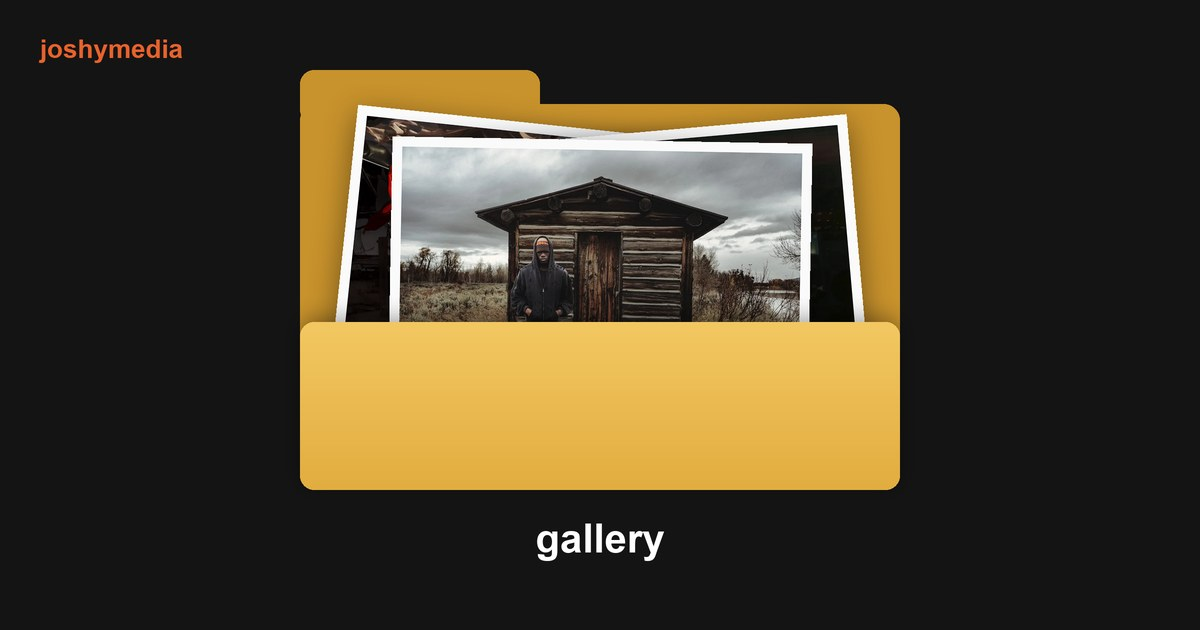
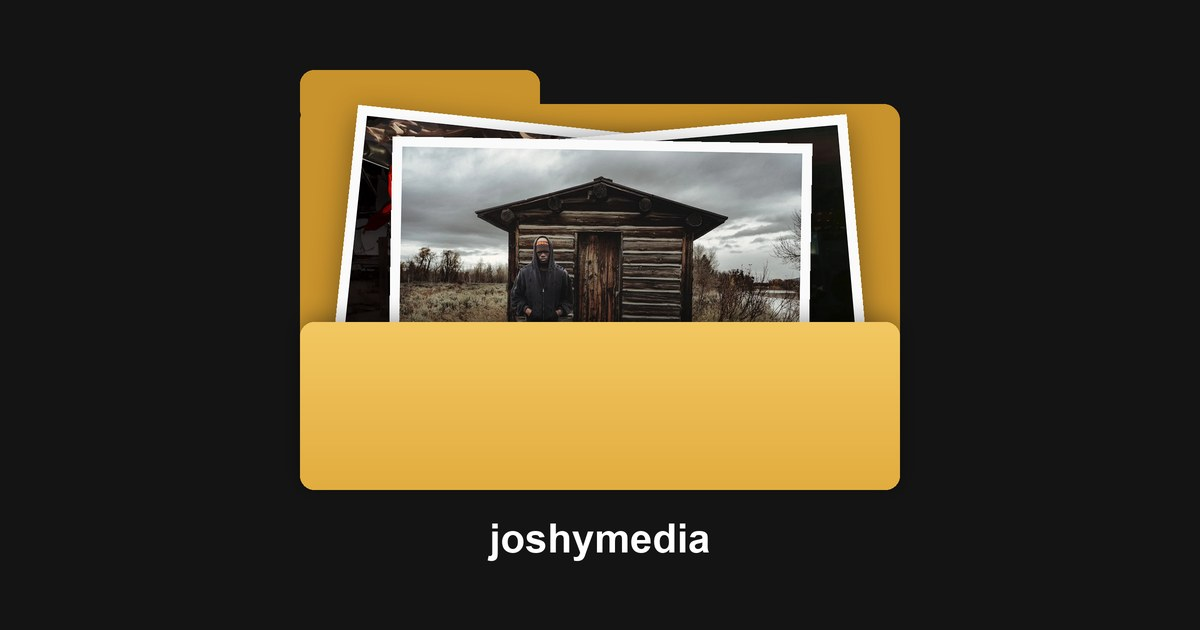
Link preview: folder named joshymedia, no corner wordmark

Changed region(s): [[0.4008, 0.8143, 0.6167, 0.9048], [0.0308, 0.0603, 0.1542, 0.0905]]

diff --git a/404.html b/404.html
@@ -13,12 +13,12 @@
   <meta property="og:title" content="joshymedia">
   <meta property="og:description" content="joshy is a los angeles-based creative director and photographer.">
   <meta property="og:url" content="https://joshymedia.com/">
-  <meta property="og:image" content="https://joshymedia.com/og-image.jpg">
+  <meta property="og:image" content="https://joshymedia.com/og-image.jpg?v=2">
   <meta property="og:image:width" content="1200">
   <meta property="og:image:height" content="630">
-  <meta property="og:image:alt" content="a stack of photos in a folder named gallery">
+  <meta property="og:image:alt" content="a stack of photos in a folder named joshymedia">
   <meta name="twitter:card" content="summary_large_image">
-  <meta name="twitter:image" content="https://joshymedia.com/og-image.jpg">
+  <meta name="twitter:image" content="https://joshymedia.com/og-image.jpg?v=2">
   <script>
     try { var t = localStorage.getItem("jm-theme"); if (t) document.documentElement.dataset.theme = t; } catch (e) {}
   </script>

diff --git a/contact.html b/contact.html
@@ -13,12 +13,12 @@
   <meta property="og:title" content="joshymedia">
   <meta property="og:description" content="joshy is a los angeles-based creative director and photographer.">
   <meta property="og:url" content="https://joshymedia.com/">
-  <meta property="og:image" content="https://joshymedia.com/og-image.jpg">
+  <meta property="og:image" content="https://joshymedia.com/og-image.jpg?v=2">
   <meta property="og:image:width" content="1200">
   <meta property="og:image:height" content="630">
-  <meta property="og:image:alt" content="a stack of photos in a folder named gallery">
+  <meta property="og:image:alt" content="a stack of photos in a folder named joshymedia">
   <meta name="twitter:card" content="summary_large_image">
-  <meta name="twitter:image" content="https://joshymedia.com/og-image.jpg">
+  <meta name="twitter:image" content="https://joshymedia.com/og-image.jpg?v=2">
   <script>
     try { var t = localStorage.getItem("jm-theme"); if (t) document.documentElement.dataset.theme = t; } catch (e) {}
   </script>

diff --git a/gallery.html b/gallery.html
@@ -13,12 +13,12 @@
   <meta property="og:title" content="joshymedia">
   <meta property="og:description" content="joshy is a los angeles-based creative director and photographer.">
   <meta property="og:url" content="https://joshymedia.com/">
-  <meta property="og:image" content="https://joshymedia.com/og-image.jpg">
+  <meta property="og:image" content="https://joshymedia.com/og-image.jpg?v=2">
   <meta property="og:image:width" content="1200">
   <meta property="og:image:height" content="630">
-  <meta property="og:image:alt" content="a stack of photos in a folder named gallery">
+  <meta property="og:image:alt" content="a stack of photos in a folder named joshymedia">
   <meta name="twitter:card" content="summary_large_image">
-  <meta name="twitter:image" content="https://joshymedia.com/og-image.jpg">
+  <meta name="twitter:image" content="https://joshymedia.com/og-image.jpg?v=2">
   <script>
     try { var t = localStorage.getItem("jm-theme"); if (t) document.documentElement.dataset.theme = t; } catch (e) {}
   </script>

diff --git a/index.html b/index.html
@@ -11,12 +11,12 @@
   <meta property="og:title" content="joshymedia">
   <meta property="og:description" content="joshy is a los angeles-based creative director and photographer.">
   <meta property="og:url" content="https://joshymedia.com/">
-  <meta property="og:image" content="https://joshymedia.com/og-image.jpg">
+  <meta property="og:image" content="https://joshymedia.com/og-image.jpg?v=2">
   <meta property="og:image:width" content="1200">
   <meta property="og:image:height" content="630">
-  <meta property="og:image:alt" content="a stack of photos in a folder named gallery">
+  <meta property="og:image:alt" content="a stack of photos in a folder named joshymedia">
   <meta name="twitter:card" content="summary_large_image">
-  <meta name="twitter:image" content="https://joshymedia.com/og-image.jpg">
+  <meta name="twitter:image" content="https://joshymedia.com/og-image.jpg?v=2">
   <script>
     try { var t = localStorage.getItem("jm-theme"); if (t) document.documentElement.dataset.theme = t; } catch (e) {}
   </script>

diff --git a/project.html b/project.html
@@ -13,12 +13,12 @@
   <meta property="og:title" content="joshymedia">
   <meta property="og:description" content="joshy is a los angeles-based creative director and photographer.">
   <meta property="og:url" content="https://joshymedia.com/">
-  <meta property="og:image" content="https://joshymedia.com/og-image.jpg">
+  <meta property="og:image" content="https://joshymedia.com/og-image.jpg?v=2">
   <meta property="og:image:width" content="1200">
   <meta property="og:image:height" content="630">
-  <meta property="og:image:alt" content="a stack of photos in a folder named gallery">
+  <meta property="og:image:alt" content="a stack of photos in a folder named joshymedia">
   <meta name="twitter:card" content="summary_large_image">
-  <meta name="twitter:image" content="https://joshymedia.com/og-image.jpg">
+  <meta name="twitter:image" content="https://joshymedia.com/og-image.jpg?v=2">
   <script>
     try { var t = localStorage.getItem("jm-theme"); if (t) document.documentElement.dataset.theme = t; } catch (e) {}
   </script>

diff --git a/projects.html b/projects.html
@@ -13,12 +13,12 @@
   <meta property="og:title" content="joshymedia">
   <meta property="og:description" content="joshy is a los angeles-based creative director and photographer.">
   <meta property="og:url" content="https://joshymedia.com/">
-  <meta property="og:image" content="https://joshymedia.com/og-image.jpg">
+  <meta property="og:image" content="https://joshymedia.com/og-image.jpg?v=2">
   <meta property="og:image:width" content="1200">
   <meta property="og:image:height" content="630">
-  <meta property="og:image:alt" content="a stack of photos in a folder named gallery">
+  <meta property="og:image:alt" content="a stack of photos in a folder named joshymedia">
   <meta name="twitter:card" content="summary_large_image">
-  <meta name="twitter:image" content="https://joshymedia.com/og-image.jpg">
+  <meta name="twitter:image" content="https://joshymedia.com/og-image.jpg?v=2">
   <script>
     try { var t = localStorage.getItem("jm-theme"); if (t) document.documentElement.dataset.theme = t; } catch (e) {}
   </script>

diff --git a/projects/ditch.html b/projects/ditch.html
@@ -13,12 +13,12 @@
   <meta property="og:title" content="joshymedia">
   <meta property="og:description" content="joshy is a los angeles-based creative director and photographer.">
   <meta property="og:url" content="https://joshymedia.com/">
-  <meta property="og:image" content="https://joshymedia.com/og-image.jpg">
+  <meta property="og:image" content="https://joshymedia.com/og-image.jpg?v=2">
   <meta property="og:image:width" content="1200">
   <meta property="og:image:height" content="630">
-  <meta property="og:image:alt" content="a stack of photos in a folder named gallery">
+  <meta property="og:image:alt" content="a stack of photos in a folder named joshymedia">
   <meta name="twitter:card" content="summary_large_image">
-  <meta name="twitter:image" content="https://joshymedia.com/og-image.jpg">
+  <meta name="twitter:image" content="https://joshymedia.com/og-image.jpg?v=2">
   <script>
     try { var t = localStorage.getItem("jm-theme"); if (t) document.documentElement.dataset.theme = t; } catch (e) {}
   </script>

diff --git a/projects/ditch/2026-fw-campaign.html b/projects/ditch/2026-fw-campaign.html
@@ -13,12 +13,12 @@
   <meta property="og:title" content="joshymedia">
   <meta property="og:description" content="joshy is a los angeles-based creative director and photographer.">
   <meta property="og:url" content="https://joshymedia.com/">
-  <meta property="og:image" content="https://joshymedia.com/og-image.jpg">
+  <meta property="og:image" content="https://joshymedia.com/og-image.jpg?v=2">
   <meta property="og:image:width" content="1200">
   <meta property="og:image:height" content="630">
-  <meta property="og:image:alt" content="a stack of photos in a folder named gallery">
+  <meta property="og:image:alt" content="a stack of photos in a folder named joshymedia">
   <meta name="twitter:card" content="summary_large_image">
-  <meta name="twitter:image" content="https://joshymedia.com/og-image.jpg">
+  <meta name="twitter:image" content="https://joshymedia.com/og-image.jpg?v=2">
   <script>
     try { var t = localStorage.getItem("jm-theme"); if (t) document.documentElement.dataset.theme = t; } catch (e) {}
   </script>

diff --git a/projects/ditch/index.html b/projects/ditch/index.html
@@ -13,12 +13,12 @@
   <meta property="og:title" content="joshymedia">
   <meta property="og:description" content="joshy is a los angeles-based creative director and photographer.">
   <meta property="og:url" content="https://joshymedia.com/">
-  <meta property="og:image" content="https://joshymedia.com/og-image.jpg">
+  <meta property="og:image" content="https://joshymedia.com/og-image.jpg?v=2">
   <meta property="og:image:width" content="1200">
   <meta property="og:image:height" content="630">
-  <meta property="og:image:alt" content="a stack of photos in a folder named gallery">
+  <meta property="og:image:alt" content="a stack of photos in a folder named joshymedia">
   <meta name="twitter:card" content="summary_large_image">
-  <meta name="twitter:image" content="https://joshymedia.com/og-image.jpg">
+  <meta name="twitter:image" content="https://joshymedia.com/og-image.jpg?v=2">
   <script>
     try { var t = localStorage.getItem("jm-theme"); if (t) document.documentElement.dataset.theme = t; } catch (e) {}
   </script>

diff --git a/projects/ditch/ruin.html b/projects/ditch/ruin.html
@@ -13,12 +13,12 @@
   <meta property="og:title" content="joshymedia">
   <meta property="og:description" content="joshy is a los angeles-based creative director and photographer.">
   <meta property="og:url" content="https://joshymedia.com/">
-  <meta property="og:image" content="https://joshymedia.com/og-image.jpg">
+  <meta property="og:image" content="https://joshymedia.com/og-image.jpg?v=2">
   <meta property="og:image:width" content="1200">
   <meta property="og:image:height" content="630">
-  <meta property="og:image:alt" content="a stack of photos in a folder named gallery">
+  <meta property="og:image:alt" content="a stack of photos in a folder named joshymedia">
   <meta name="twitter:card" content="summary_large_image">
-  <meta name="twitter:image" content="https://joshymedia.com/og-image.jpg">
+  <meta name="twitter:image" content="https://joshymedia.com/og-image.jpg?v=2">
   <script>
     try { var t = localStorage.getItem("jm-theme"); if (t) document.documentElement.dataset.theme = t; } catch (e) {}
   </script>

diff --git a/projects/index.html b/projects/index.html
@@ -13,12 +13,12 @@
   <meta property="og:title" content="joshymedia">
   <meta property="og:description" content="joshy is a los angeles-based creative director and photographer.">
   <meta property="og:url" content="https://joshymedia.com/">
-  <meta property="og:image" content="https://joshymedia.com/og-image.jpg">
+  <meta property="og:image" content="https://joshymedia.com/og-image.jpg?v=2">
   <meta property="og:image:width" content="1200">
   <meta property="og:image:height" content="630">
-  <meta property="og:image:alt" content="a stack of photos in a folder named gallery">
+  <meta property="og:image:alt" content="a stack of photos in a folder named joshymedia">
   <meta name="twitter:card" content="summary_large_image">
-  <meta name="twitter:image" content="https://joshymedia.com/og-image.jpg">
+  <meta name="twitter:image" content="https://joshymedia.com/og-image.jpg?v=2">
   <script>
     try { var t = localStorage.getItem("jm-theme"); if (t) document.documentElement.dataset.theme = t; } catch (e) {}
   </script>

diff --git a/projects/sukiibaby.html b/projects/sukiibaby.html
@@ -13,12 +13,12 @@
   <meta property="og:title" content="joshymedia">
   <meta property="og:description" content="joshy is a los angeles-based creative director and photographer.">
   <meta property="og:url" content="https://joshymedia.com/">
-  <meta property="og:image" content="https://joshymedia.com/og-image.jpg">
+  <meta property="og:image" content="https://joshymedia.com/og-image.jpg?v=2">
   <meta property="og:image:width" content="1200">
   <meta property="og:image:height" content="630">
-  <meta property="og:image:alt" content="a stack of photos in a folder named gallery">
+  <meta property="og:image:alt" content="a stack of photos in a folder named joshymedia">
   <meta name="twitter:card" content="summary_large_image">
-  <meta name="twitter:image" content="https://joshymedia.com/og-image.jpg">
+  <meta name="twitter:image" content="https://joshymedia.com/og-image.jpg?v=2">
   <script>
     try { var t = localStorage.getItem("jm-theme"); if (t) document.documentElement.dataset.theme = t; } catch (e) {}
   </script>
